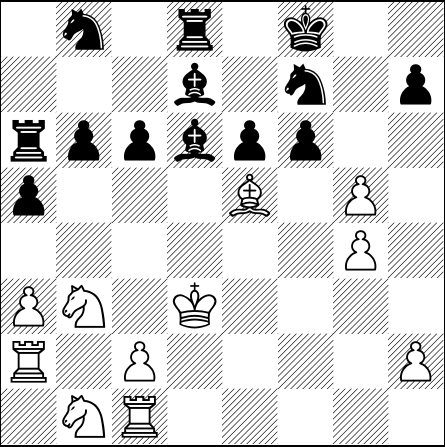
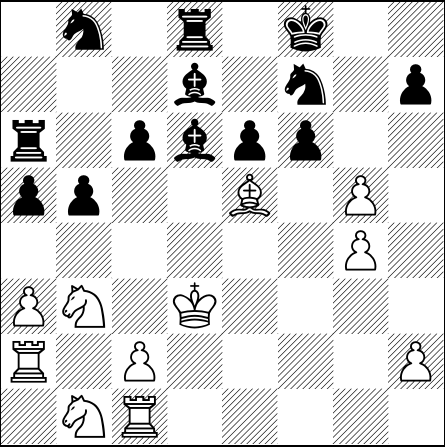
[automated] Regenerate text/pdf for chessboard

Changed region(s): [[0.1461, 0.2617, 0.2337, 0.4944]]

diff --git a/default_filepath.tex b/default_filepath.tex
@@ -13,6 +13,6 @@
 \normalsize%
 \setchessboard{showmover=false}%
 \newgame%
-\fenboard{1n1r1k2/3b1n1p/rppbpp2/p3B1P1/6P1/PN1K4/R1P4P/1NR5 b - - 8 43}%
+\fenboard{1n1r1k2/3b1n1p/r1pbpp2/pp2B1P1/6P1/PN1K4/R1P4P/1NR5 w - - 0 44}%
 \chessboard%
 \end{document}
